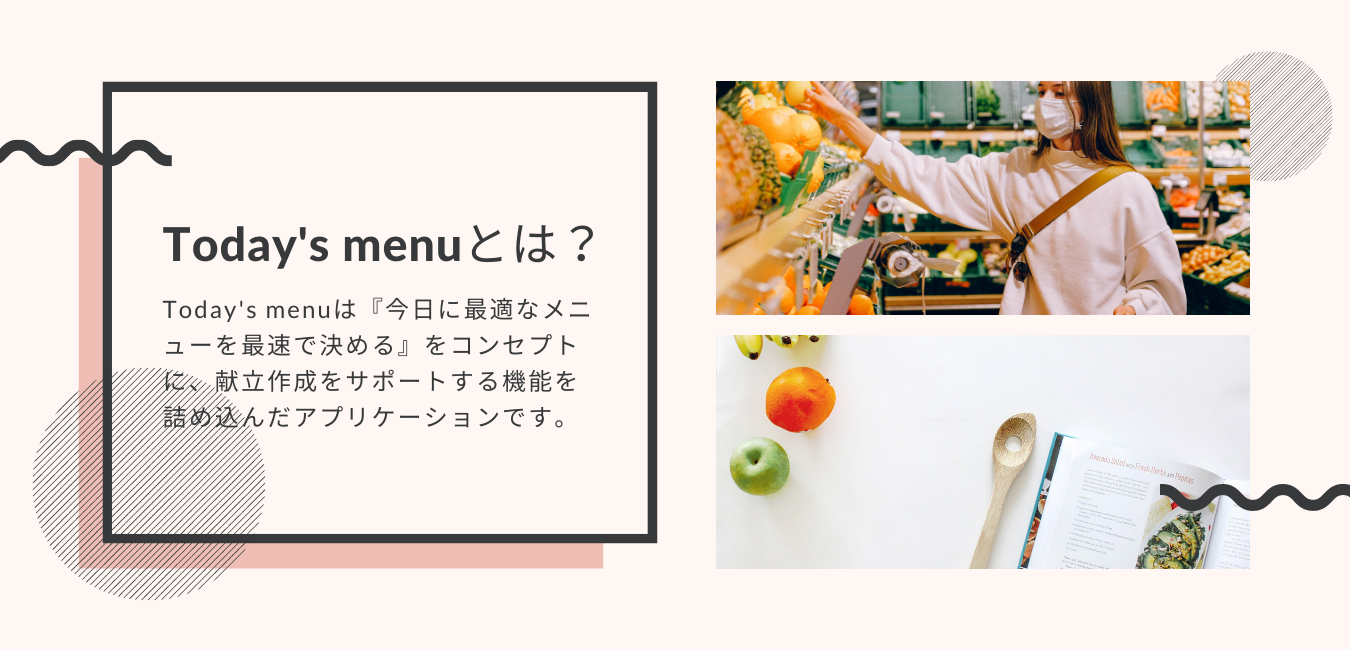
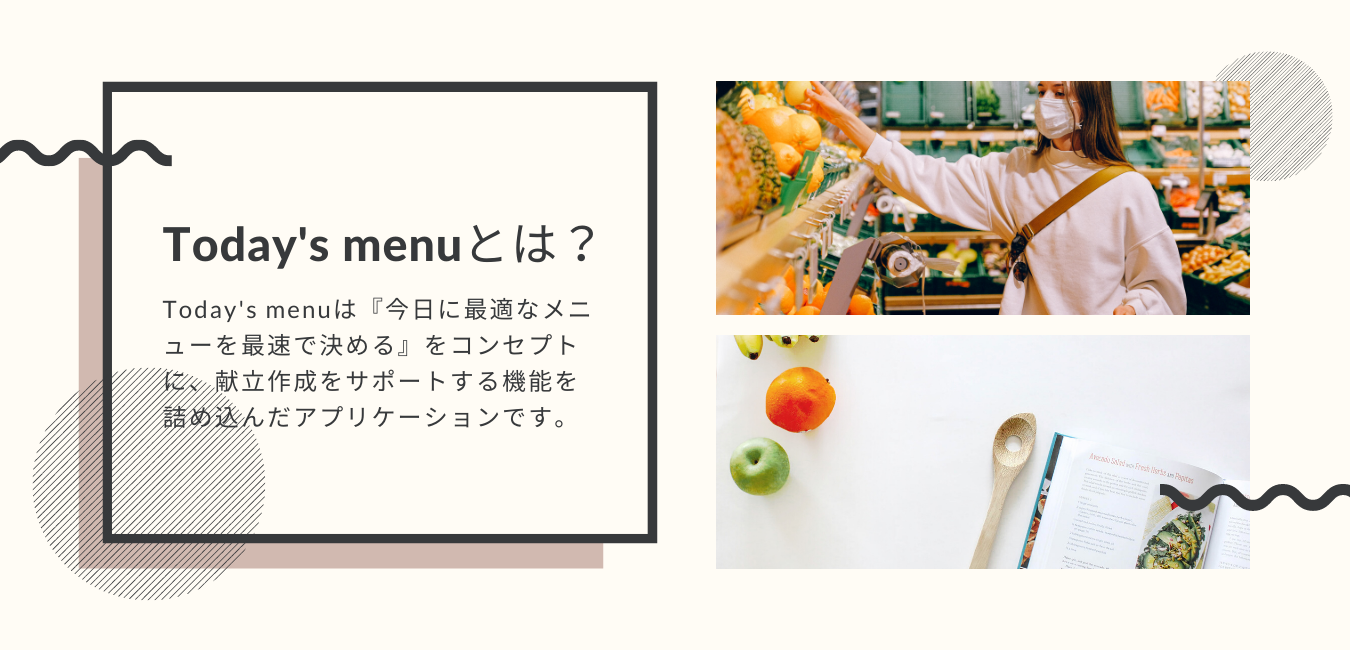
画像変更

Changed region(s): [[0.0311, 0.2462, 0.4667, 0.8923]]

diff --git a/app/assets/stylesheets/application.scss b/app/assets/stylesheets/application.scss
@@ -25,7 +25,9 @@
 }
 
 body {
-  background-color: #fff7f3;
+  // background-color: #fff7f3;
+  // background-color: #f3f0e9;
+  background-color: #fffcf5;
 }
 
 main {
@@ -34,7 +36,7 @@ main {
 
 // 検索フォームの背景色
 .search-bg {
- background-color: rgba(255,255,255,0.7);
+ background-color: rgba(255,255,255,0.5);
 }
 
 // リンクの文字色を黒に変更
@@ -66,11 +68,11 @@ color: #000;
 
 .pagination > .active > a {
   color: turquoise;
-  background-color: #e0a2a7;
+  background-color: #d1b9b0;
 }
 
 .page-item.active .page-link {
-  background-color: #e0a2a7;
+  background-color: #d1b9b0;
 }
 
 // フッターを最下部に固定
